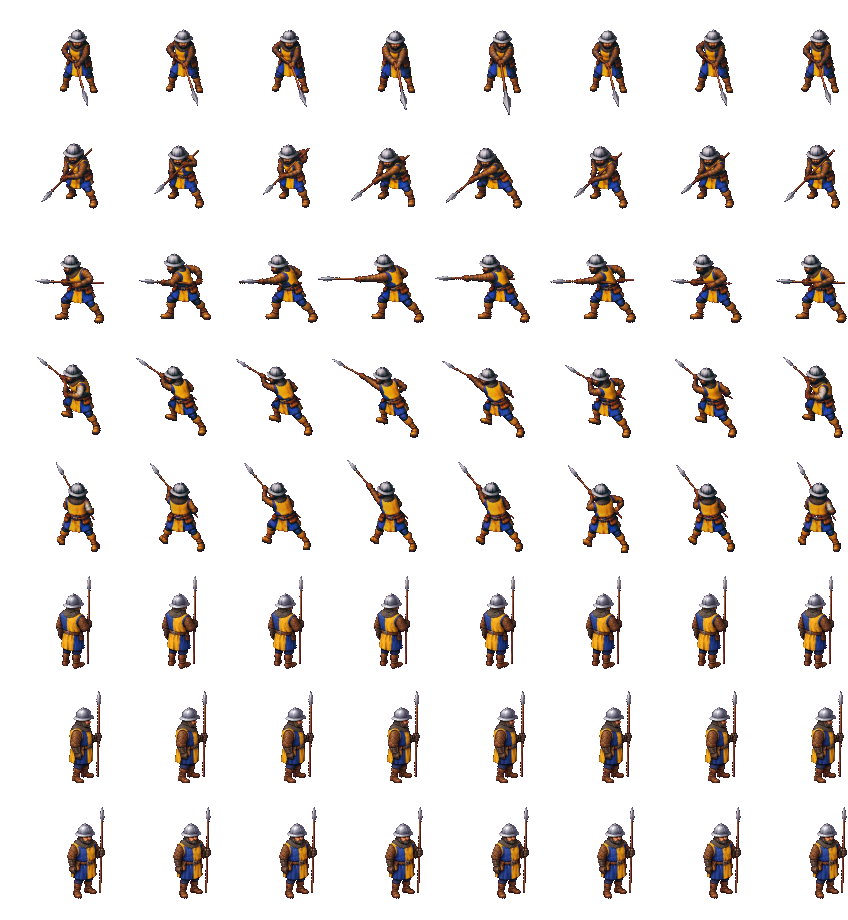
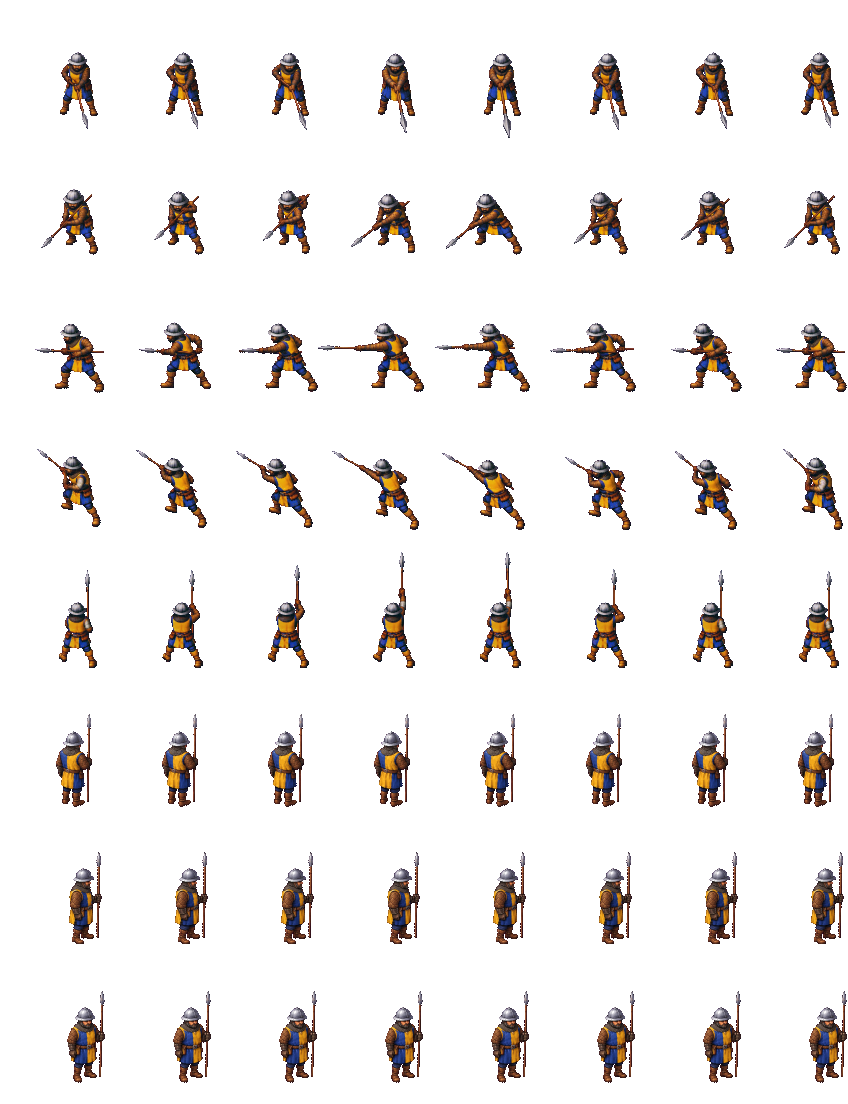
Aanvallen N van de speerman, nu recht omhoog
Marcel: "Maar noord is toch recht omhoog?" Met de speer aan zijn rechterkant, naast de helm, schuift hij nu recht omhoog
voor de steek. De helm is op spelmaat even breed als bij staan N (17 pixels; nagemeten), en staan en lopen blijven
pixel voor pixel hetzelfde.

diff --git a/beelden/beschrijving.js b/beelden/beschrijving.js
@@ -545,11 +545,11 @@
      "naam": "speerman",
      "cel": [
       122,
-      125
+      148
      ],
      "anker": [
       83,
-      98
+      121
      ],
      "snelheid": 1.5,
      "richtingen": [
@@ -600,11 +600,11 @@
        "herhaal": false,
        "cel": [
         106,
-        115
+        138
        ],
        "anker": [
         78,
-        93
+        116
        ]
       },
       "sterven": {

diff --git a/ontwerp/beelden-van-de-generator.md b/ontwerp/beelden-van-de-generator.md
@@ -317,9 +317,12 @@ generator van 1,7 MB; op spelmaat is het verschil ruis) en lopen in het spel. Wa
   the sheet), the spearhead pointing up and slightly to the left of the sheet, about 20 degrees from straight up,
   passing beside his helmet on the left, never hidden behind it. [...] Matte colours exactly like the attached reference
   sheets, not glossy." Hij is nog wel glimmend; de kleur trekt `generator.cjs` gelijk. Maar (Marcel: "Maar noord is toch
-  recht omhoog?"): de speer wijst zo'n 30 graden naar links, half naar NW. Voorlopig in het spel; recht omhoog kan als
-  hij hem aan zijn rechterkant houdt, naast zijn helm en niet erachter ("the spear points straight up, exactly
-  vertical, [...] held at the right side of his body [...] so it rises beside his helmet on the right"). Bij N (vel 14), van achteren, speelt hetzelfde: dan de punt
+  recht omhoog?"): de speer wees zo'n 30 graden naar links, half naar NW. Recht omhoog werd het met: "redo 14: Attacking
+  N again, keep everything of the last version, but the spear points straight up, exactly vertical, away from the
+  viewer: held at the right side of his body (his right hand side, on the right of the sheet), so it rises beside his
+  helmet on the right, never behind or over the helmet. The spear stays vertical and on that same line in all 8 frames,
+  it only slides up and down along that line for the thrust; frame 8 is exactly the same as frame 1." Bij een richting
+  recht naar of van de kijker: de speer aan de kant van zijn hand, recht, en alleen langs zijn lijn schuivend. Bij N (vel 14), van achteren, speelt hetzelfde: dan de punt
   omhoog, van de kijker af.
 
 ## De inventaris
